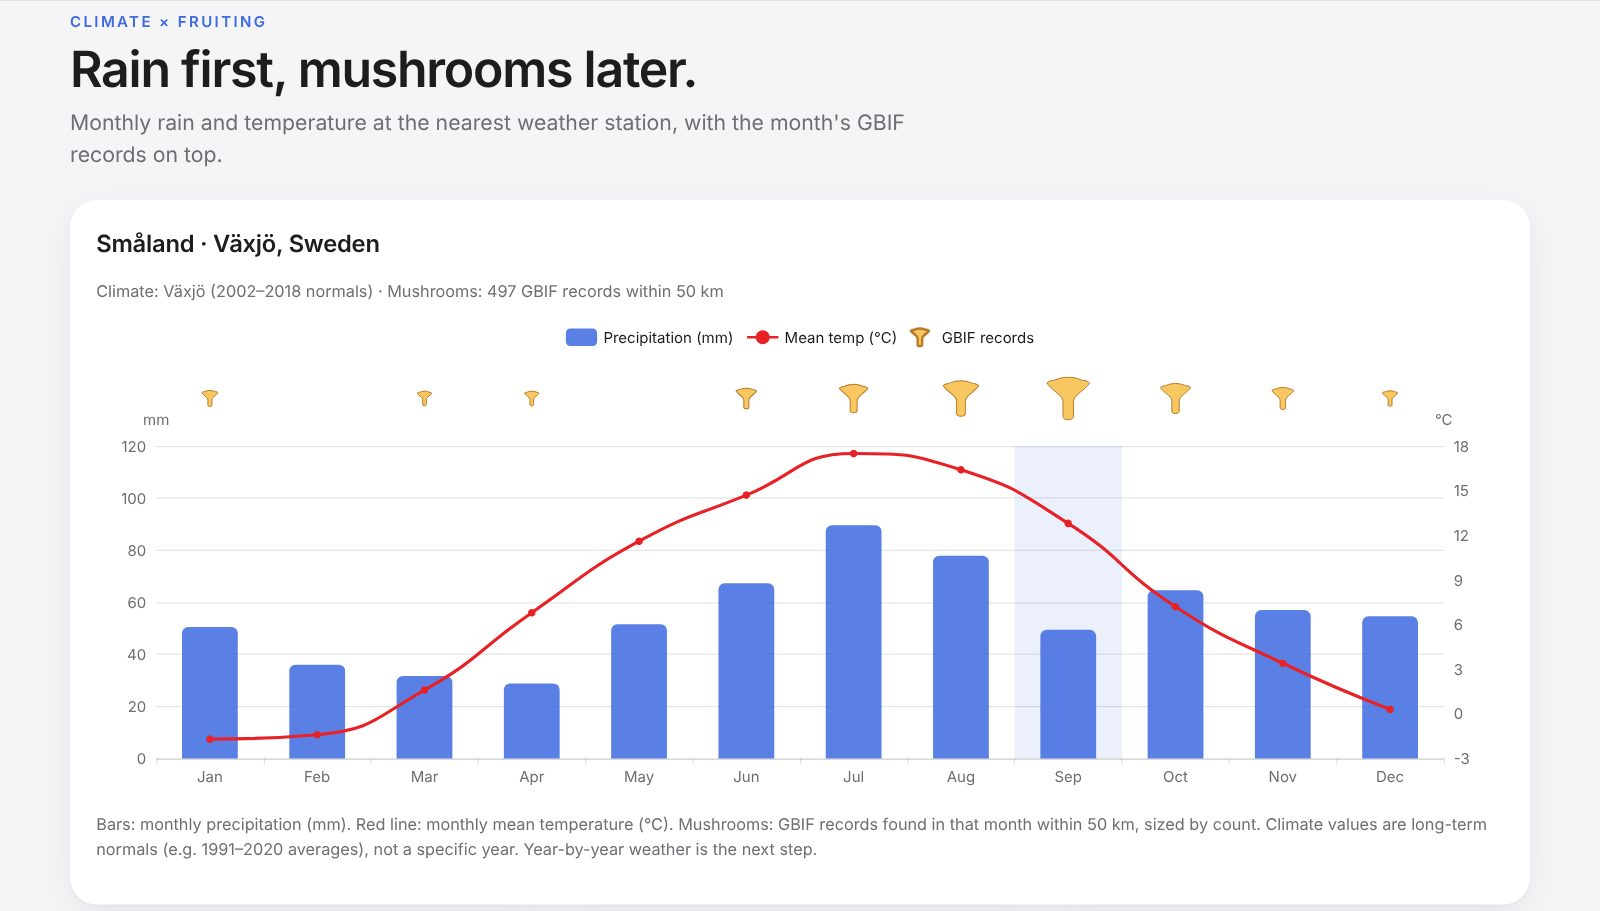
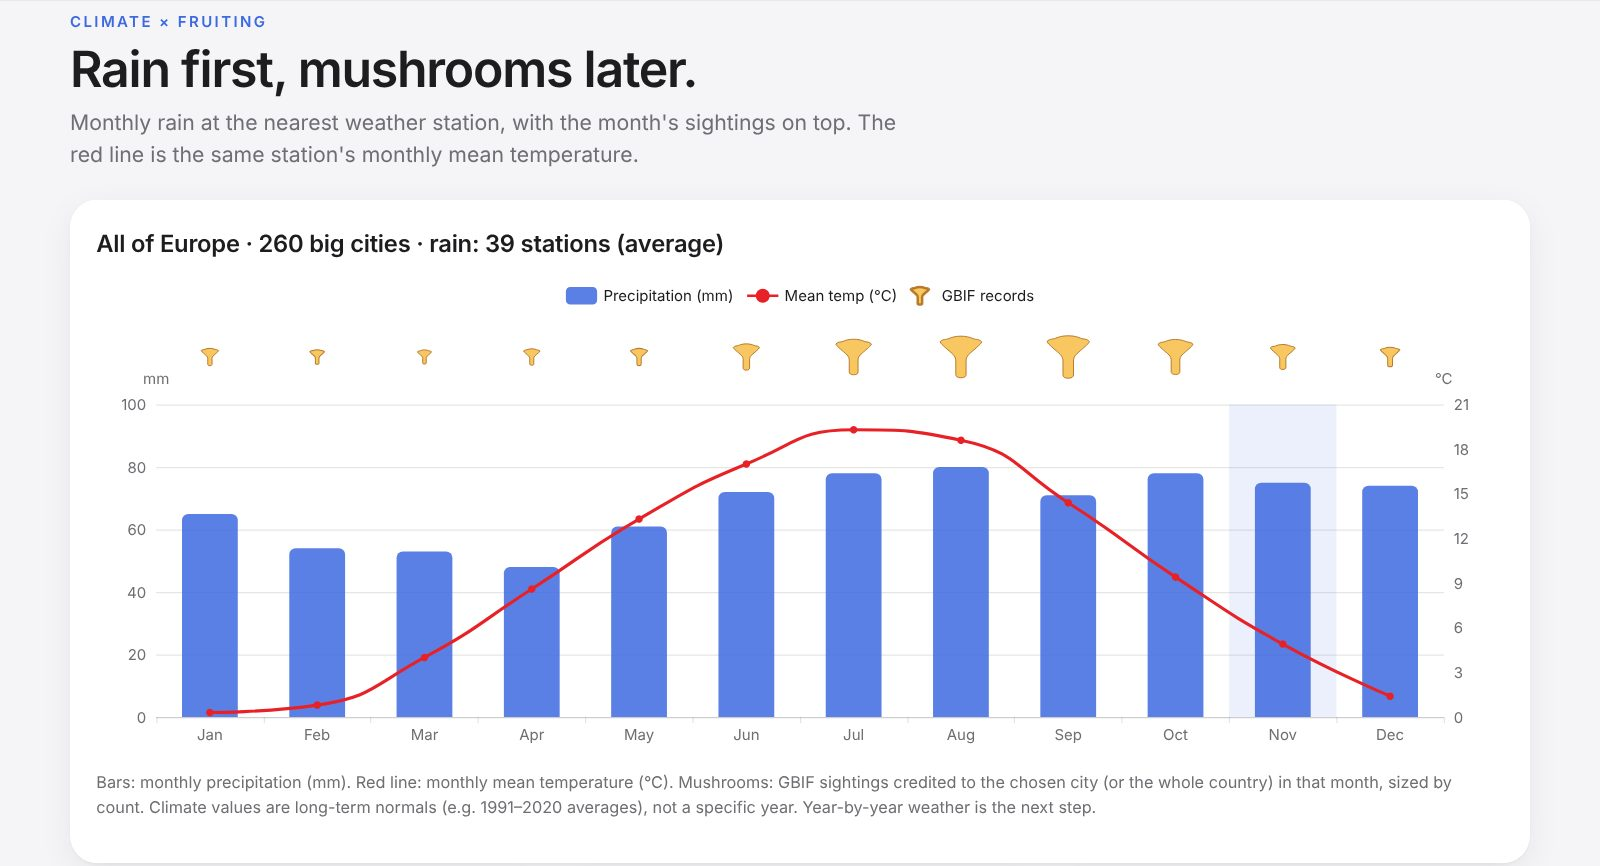
Refresh screenshots and share card for v1.2
README images and the link preview still showed v1.1 (spot cards, old fox).
Re-render them from the merged v1.2 page: Country / City / Month pickers,
ranked city table, forest fox scene and the temperature line on the
climate chart.

Claude-Session: https://claude.ai/code/session_014aetD9AdwFasu3XjMbioTo

diff --git a/README.md b/README.md
@@ -6,7 +6,7 @@ Where and when golden chanterelles (*Cantharellus*) turn up in Europe, the USA a
 
 | Europe, dark mode | USA, light mode |
 |---|---|
-| [![Map of Europe with mushrooms sized by GBIF chanterelle records, dark mode](docs/screenshots/map-dark.jpg)](https://soyounson.github.io/chanterelle-hunting-spots/) | [![Map of the USA with mushrooms sized by GBIF chanterelle records and rain contours, light mode](docs/screenshots/map-usa-light.jpg)](https://soyounson.github.io/chanterelle-hunting-spots/) |
+| [![Map of Europe with Country, City and Month pickers and mushrooms sized by GBIF chanterelle records, dark mode](docs/screenshots/map-dark.jpg)](https://soyounson.github.io/chanterelle-hunting-spots/) | [![Map of the USA with mushrooms sized by GBIF chanterelle records and rain contours, light mode](docs/screenshots/map-usa-light.jpg)](https://soyounson.github.io/chanterelle-hunting-spots/) |
 
 ## What the page shows
 
@@ -17,7 +17,7 @@ Where and when golden chanterelles (*Cantharellus*) turn up in Europe, the USA a
 
 | Harvest outlook | Climate × Fruiting |
 |---|---|
-| [![A fox fills a net bag with September records for Småland, Sweden](docs/screenshots/harvest.jpg)](https://soyounson.github.io/chanterelle-hunting-spots/#harvest) | [![Monthly rain bars and temperature line for Växjö, with mushroom icons sized by GBIF records](docs/screenshots/climate.jpg)](https://soyounson.github.io/chanterelle-hunting-spots/#climate) |
+| [![A fox in a forest fills a net bag with November records for all of Europe](docs/screenshots/harvest.jpg)](https://soyounson.github.io/chanterelle-hunting-spots/#harvest) | [![Monthly rain bars and temperature line for Europe, with mushroom icons sized by GBIF records](docs/screenshots/climate.jpg)](https://soyounson.github.io/chanterelle-hunting-spots/#climate) |
 
 ## How the numbers are made
 
